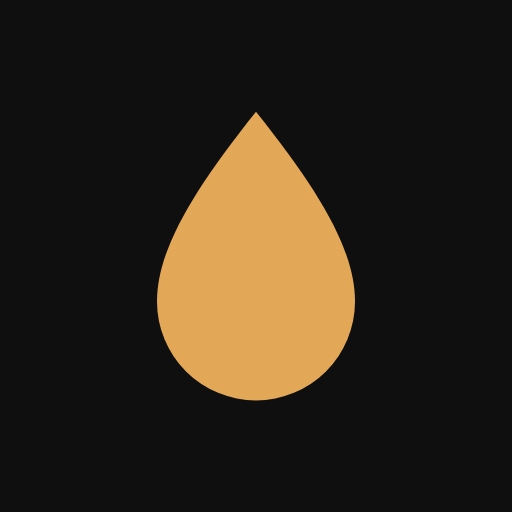
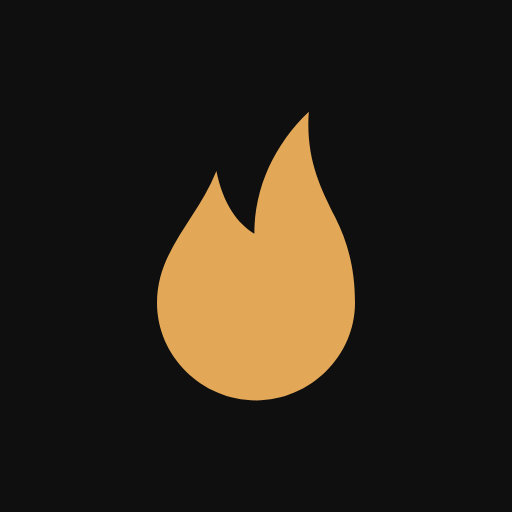
Replace the teardrop with a real flame shape everywhere

diff --git a/src/screens/shared.tsx b/src/screens/shared.tsx
@@ -14,6 +14,15 @@ import { keptMeta, openMeta } from '../format'
 import { navigate } from '../router'
 import { useNow } from '../useNow'
 
+/**
+ * The one flame shape used everywhere: hall, candles, brand mark, and (copied)
+ * public/favicon.svg, from which the app icon PNGs are exported. In a 22x30
+ * viewBox, bounding box x 5..17, y 1..18.5, leaving room for a candle below.
+ * If you change it, update favicon.svg and re-export the PNGs.
+ */
+const FLAME_PATH =
+  'M11 18.5C7.7 18.5 5 15.8 5 12.6C5 9.4 7.4 7.6 8.6 4.6C9 6.6 9.9 7.8 10.9 8.4C10.9 5.6 12.1 3 14.2 1C14 3.8 14.9 5.6 15.8 7.4C16.6 9 17 10.6 17 12.6C17 15.8 14.3 18.5 11 18.5Z'
+
 /** Flame in an arch, the hall's mark on the list icon button. */
 function HallIcon() {
   return (
@@ -28,7 +37,13 @@ function HallIcon() {
       strokeLinejoin="round"
       aria-hidden="true"
     >
-      <path d="M12 3c2 2.5 3 4.2 3 5.8A3 3 0 0 1 9 8.8C9 7.2 10 5.5 12 3z" />
+      {/* The shared flame at half size, tip at y=3, base at the wick (y=11.75).
+          The stroke is doubled to cancel the scale and match the other strokes. */}
+      <path
+        d={FLAME_PATH}
+        transform="translate(12 3) scale(0.5) translate(-11 -1)"
+        strokeWidth="3"
+      />
       <path d="M9 14h6v7H9z" />
       <path d="M12 11.8V14" />
     </svg>
@@ -55,7 +70,7 @@ function ArrowIcon() {
 function FlameIcon() {
   return (
     <svg width="10" height="14" viewBox="0 0 22 30" aria-hidden="true">
-      <path d="M11 1c4 5 6 8.5 6 11.5a6 6 0 0 1-12 0C5 9.5 7 6 11 1z" fill="#E3A857" />
+      <path d={FLAME_PATH} fill="#E3A857" />
     </svg>
   )
 }
@@ -100,7 +115,7 @@ function BackIcon() {
 function HallFlame({ className }: { className?: string }) {
   return (
     <svg class={className} viewBox="0 0 22 30" aria-hidden="true">
-      <path d="M11 1c4 5 6 8.5 6 11.5a6 6 0 0 1-12 0C5 9.5 7 6 11 1z" fill="#E3A857" />
+      <path d={FLAME_PATH} fill="#E3A857" />
       <rect x="7" y="20" width="8" height="10" fill="#3A3833" />
     </svg>
   )
@@ -118,7 +133,7 @@ function CandleFlame({
 }) {
   return (
     <svg class={className} width={width} height={height} viewBox="0 0 22 30" aria-hidden="true">
-      <path d="M11 1c4 5 6 8.5 6 11.5a6 6 0 0 1-12 0C5 9.5 7 6 11 1z" fill="#E3A857" />
+      <path d={FLAME_PATH} fill="#E3A857" />
     </svg>
   )
 }
@@ -186,7 +201,7 @@ export function BrandMark() {
     <svg class="brand-mark" viewBox="0 0 512 512" aria-hidden="true">
       <rect width="512" height="512" fill="#0f0f10" />
       <g transform="translate(256 256) scale(16.5) translate(-11 -9.75)">
-        <path d="M11 1c4 5 6 8.5 6 11.5a6 6 0 0 1-12 0C5 9.5 7 6 11 1z" fill="#E3A857" />
+        <path d={FLAME_PATH} fill="#E3A857" />
       </g>
     </svg>
   )
